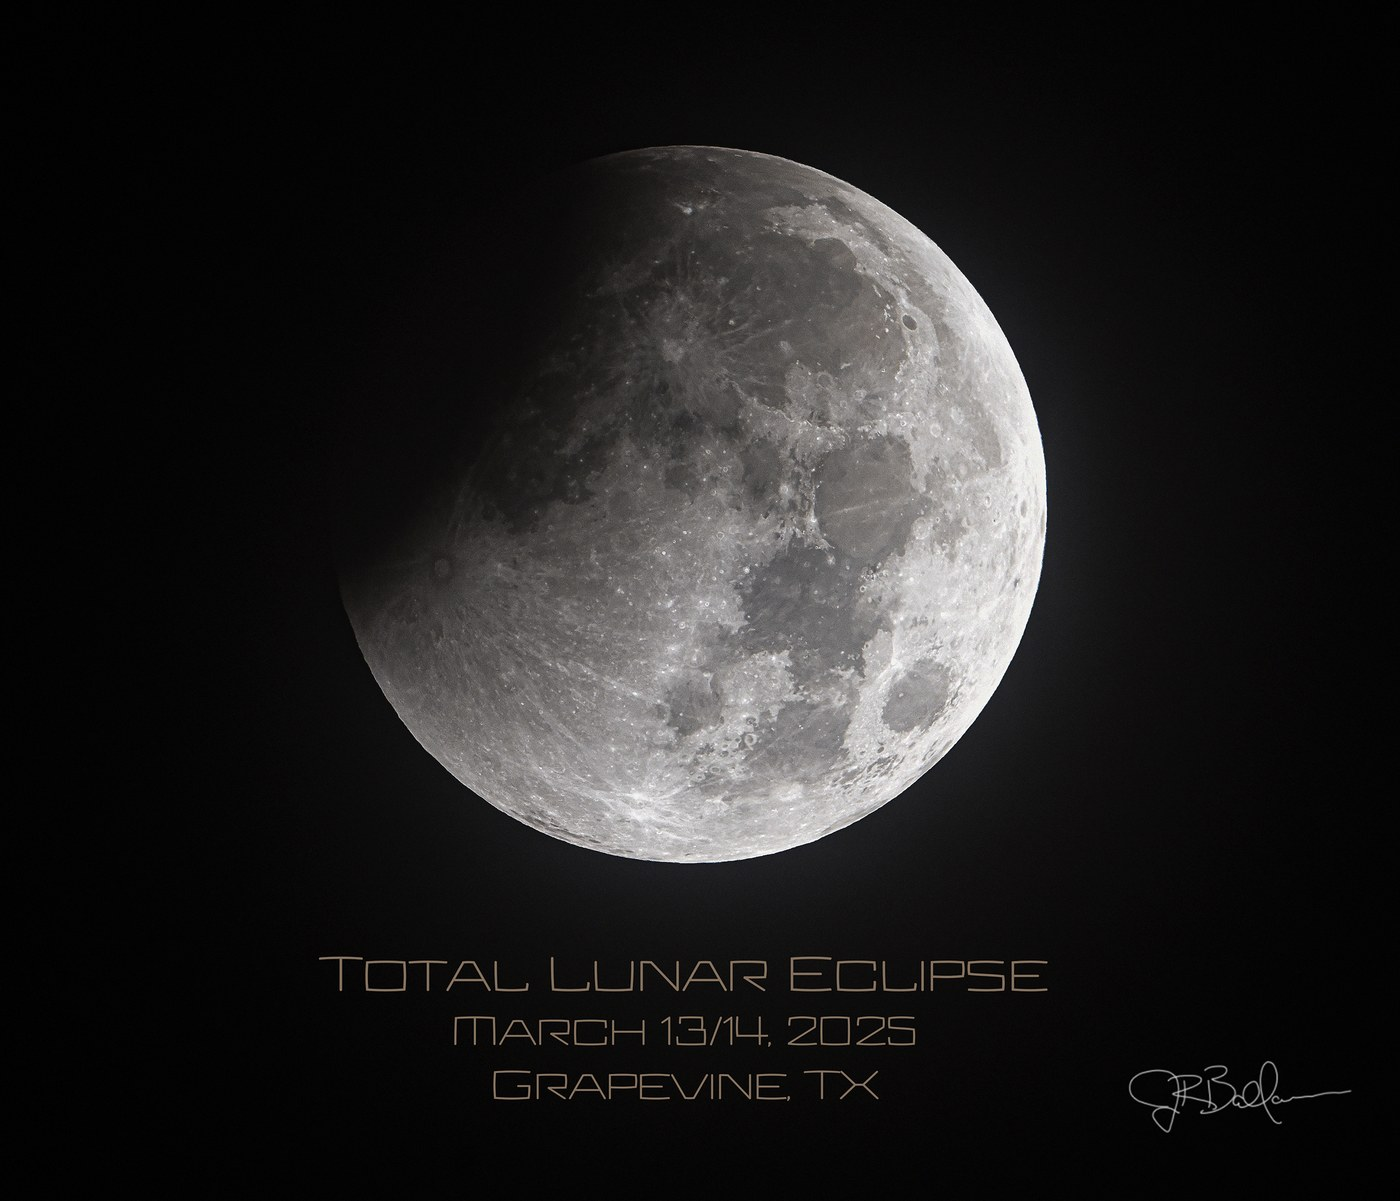
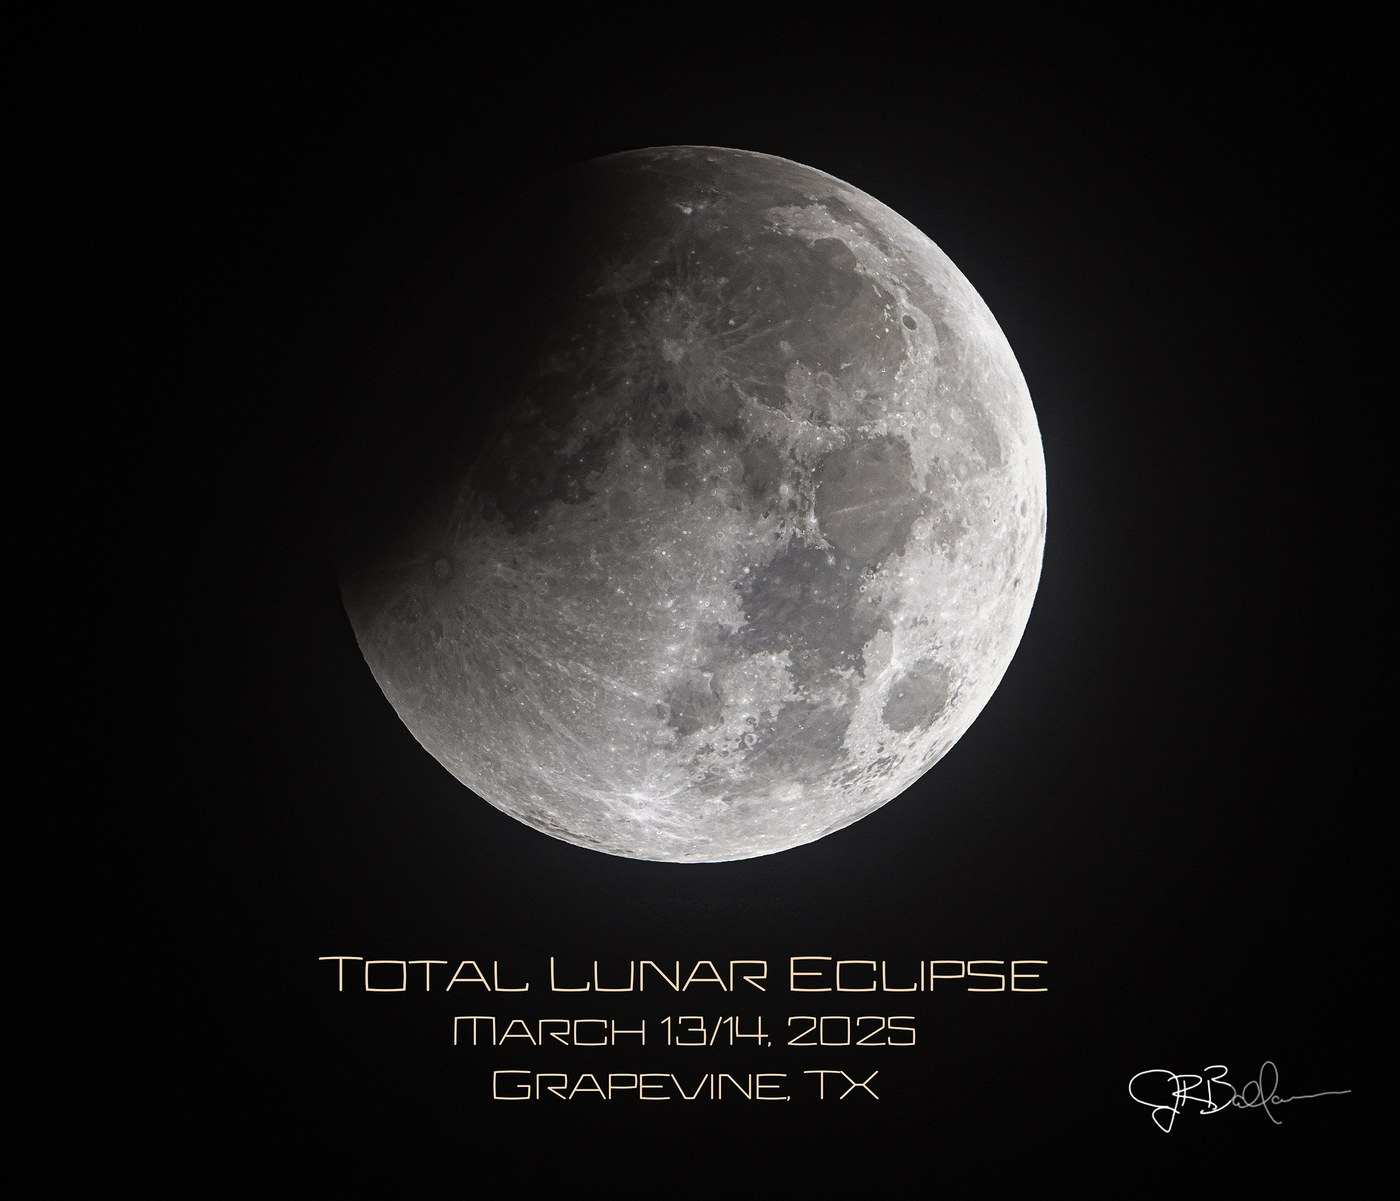
Swap eclipse hero/second image, add hires zoom, brighten labels
- Radial 9-frame composite is now the hero + gallery thumbnail; the
  16-frame two-row composite moves to the "A Second Composite" section
- All four images wired to real 2400px-wide hires files via data-hires
  / hiresMap, so click-to-zoom shows genuine detail, not just the
  on-page copy
- Brightened the baked-in caption text on all four source JPEGs with a
  per-pixel brightness-threshold boost (targets only the label's tonal
  range, leaves black sky and the moon itself untouched)

Changed region(s): [[0.2457, 0.801, 0.7371, 0.9242], [0.3686, 0.8934, 0.5529, 0.9242], [0.8293, 0.8934, 0.8907, 0.9242]]

diff --git a/src/content/gallery/total-lunar-eclipse-2025.md b/src/content/gallery/total-lunar-eclipse-2025.md
@@ -4,22 +4,22 @@ description: A composite sequence and individual frames from the total lunar ecl
 pubDate: 2025-03-14
 image: ./_images/total-lunar-eclipse-2025.jpg
 equipment: "Takahashi TOA-150 apochromatic refractor on an iOptron CEM60ec mount, Nikon D810a DSLR"
-exposure: "290+ individual frames captured through the night; 16 combined into the composite above"
+exposure: "290+ individual frames captured through the night; 9 combined into the composite above"
 draft: false
 ---
 
-A linear composite showing the full progression of the March 13-14, 2025 total lunar eclipse, shot right from home in Grapevine, Texas. No need to travel for this one &mdash; the whole event, start to finish, played out overhead on a clear March night.
+A composite showing the full progression of the March 13-14, 2025 total lunar eclipse, shot right from home in Grapevine, Texas. No need to travel for this one &mdash; the whole event, start to finish, played out overhead on a clear March night.
 
-The moon was tracked continuously through an intervalometer-driven sequence of 290+ exposures, from the first bite of the penumbra through totality and back out again. Sixteen frames from that sequence, evenly spaced, make up the composite above &mdash; the exposure time climbing steeply toward the middle of the sequence as the moon dims from a fully-lit disk to a dim red ember and back again.
+The moon was tracked continuously through an intervalometer-driven sequence of 290+ exposures, from the first bite of the penumbra through totality and back out again. Nine frames from that sequence, evenly spaced, make up the composite above &mdash; arranged in a single row radiating outward from totality at the center, with the exposure time climbing steeply toward the middle of the sequence as the moon dims from a fully-lit disk to a dim red ember and back again.
 
 <div class="ke-image-feature">
 <div class="ke-image-feature-row">
-<div class="ke-image-feature-item">
+<div class="ke-image-feature-item" data-hires="/images/gallery/total-lunar-eclipse-2025-partial-hires.jpg">
 
 ![The partial phase of the March 2025 lunar eclipse, as the umbral shadow advances across the lunar disk](./_images/total-lunar-eclipse-2025-partial.jpg)
 
 </div>
-<div class="ke-image-feature-item">
+<div class="ke-image-feature-item" data-hires="/images/gallery/total-lunar-eclipse-2025-totality-hires.jpg">
 
 ![Totality during the March 2025 lunar eclipse, the full lunar disk lit only by refracted, reddened sunlight](./_images/total-lunar-eclipse-2025-totality.jpg)
 
@@ -32,13 +32,13 @@ That jump in exposure time from one frame to the next is the whole story of a lu
 
 ### A Second Composite
 
-<div class="ke-figure">
+<div class="ke-figure" data-hires="/images/gallery/total-lunar-eclipse-2025-sequence-hires.jpg">
 
-![A second composite of the March 2025 total lunar eclipse, arranged as a single row radiating out from totality at center](./_images/total-lunar-eclipse-2025-radial.jpg)
+![A second composite of the March 2025 total lunar eclipse, sixteen frames arranged in two rows spanning the full progression](./_images/total-lunar-eclipse-2025-sequence.jpg)
 
 </div>
 
-A second, simpler arrangement of the same event &mdash; nine frames in a single row, radiating outward from totality at the center rather than stacked in two rows like the composite up top. Same eclipse, same night, just a different way of laying out the story.
+A second, denser arrangement of the same event &mdash; sixteen frames stacked in two rows rather than radiating out from a single center like the composite up top. Same eclipse, same night, just a different way of laying out the story.
 
 <div class="ke-ai-stub">
 <span class="ke-ai-stub-badge">🤖 AI-drafted &middot; unverified</span>

diff --git a/HISTORY.md b/HISTORY.md
@@ -160,3 +160,4 @@ A chronological log of the allaboutastro.com Astro rebuild, grouped by day. Gene
 - Split B33 - The Horsehead Nebula's embedded "Previous Attempt" section (a 2003 SBIG ST-7E image) out into its own page, `b33-horsehead-nebula-2003`, in the unlisted `/gallery/legacy/` staging gallery, per Jay's request. Matches the existing split pattern used for `ic1805-heart-nebula-2004`: real content preserved as-is, cross-linked both directions ("an earlier attempt... is also on file" on the main page, "shot two years before the 2005 image" on the split-off page)
 - Cross-linked all four M31 CCD imaging attempts (2003, 2004, the 2005 three-panel mosaic at `m31-andromeda-galaxy`, and the 2019 eight-panel mosaic at `m31-mosaic`) per Jay's request after noticing the eight-panel mosaic — previously the 2005 page only linked back to 2003/2004, and the 2019 mosaic linked to none of them. Each page now names and links the other three, chronologically ordered, with the 2019 mosaic called out as the newest/definitive version. Left the 2018 `m31-andromeda-dslr` page (a separate unguided DSLR workshop shot with its own cross-linked series) out of this mesh, since it's a different narrative
 - Added Total Lunar Eclipse - March 13-14, 2025 to the main gallery, from `Desktop\2025 Lunar Eclipse\Compositions`. Confirmed the event date/time and camera model (Nikon D810a) via EXIF, and the equipment (Takahashi TOA-150 on an iOptron CEM60ec, from home in Grapevine) and exact date directly from Jay since neither was recorded in the files. Verified the March 13-14, 2025 date and the eclipse's real contact times against public sources (NASA/Sky & Telescope) rather than guessing, and matched the two single-frame exposure values (1/800s ISO1600 vs 1/6s ISO6400) against the actual public totality window to caption them correctly as partial-phase vs totality shots. Laid out per Jay's request modeled on `great-american-solar-eclipse-2017`: linear 16-frame hero composite, a `ke-image-feature` two-up row pairing the partial and totality singles, and a second 9-frame radial composite further down — all four images kept on one page rather than split off
+- Follow-up per Jay: swapped the hero and second-composite images (9-frame radial composite promoted to hero/gallery-thumbnail, 16-frame two-row composite demoted to the "A Second Composite" section) since he preferred that ordering; wired `data-hires` (and a `hiresMap` entry for the new hero) on all four images so every one zooms to a real 2400px-wide file rather than just re-displaying the on-page copy; and brightened the baked-in "Total Lunar Eclipse / date / location" text labels on all four source images by editing the actual JPEGs — a per-pixel brightness-threshold boost (only pixels already in the label's tonal range get multiplied, both flat black and the moon itself pass through untouched) rather than a naive region-crop-and-recomposite, since the latter left a faint but visible rectangular seam where the edited patch met the surrounding sky
